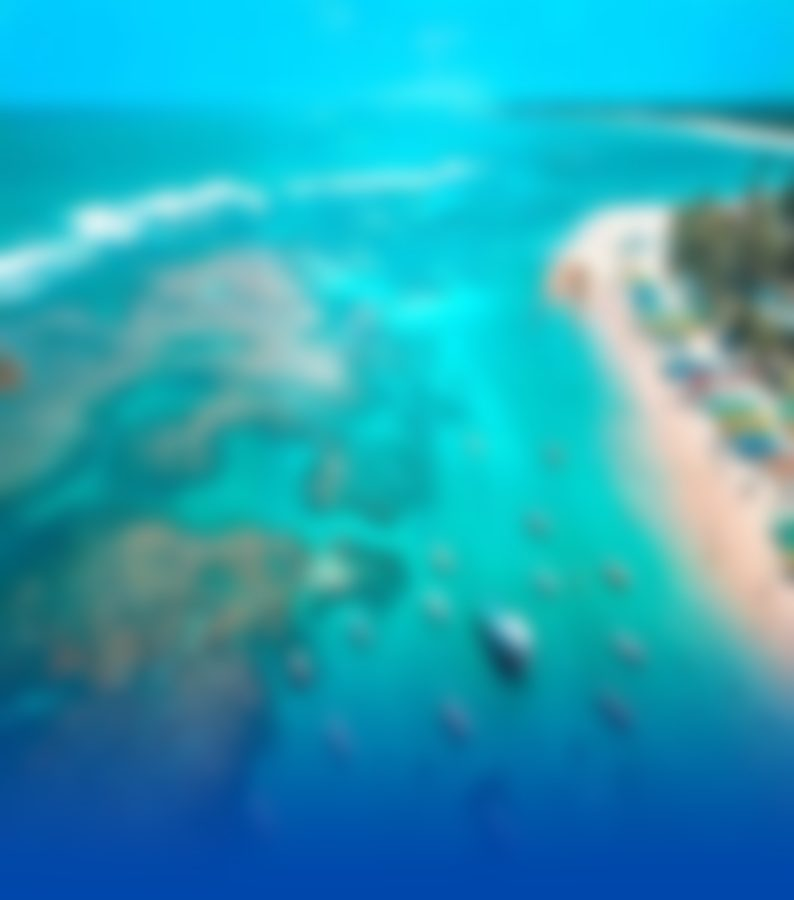
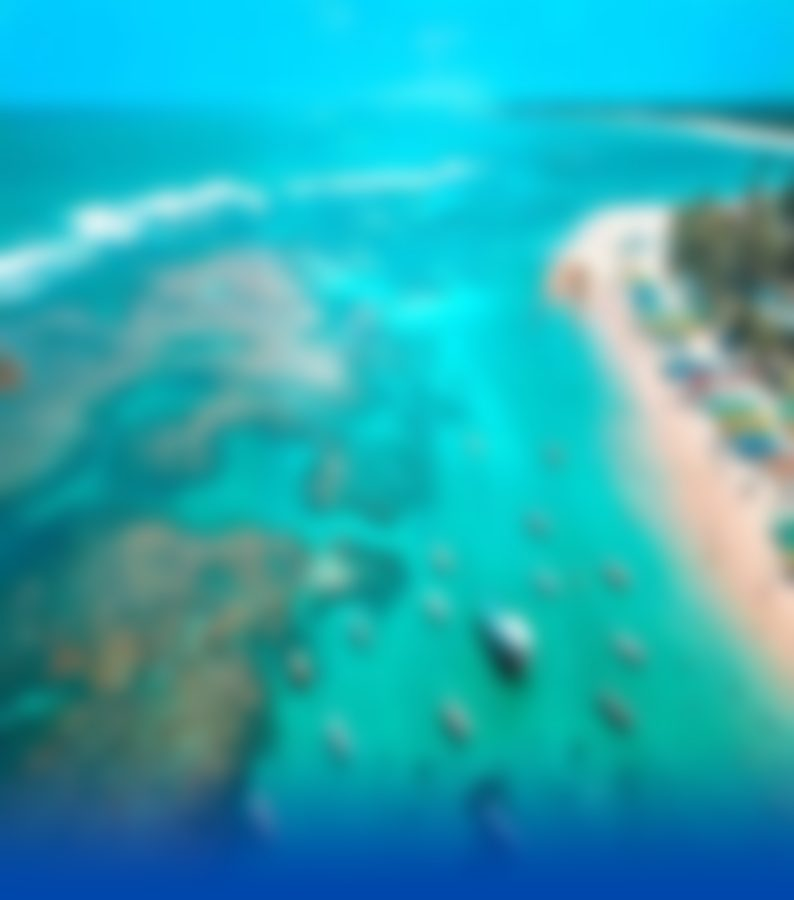
Saudação sobre a foto; degradê começa na altura dos botões
- 'Você está no Flat…' reposicionada sobre a área limpa da foto
  (padding-top do hero 500px desktop / 440px touch)
- Fade do fundo regenerado para iniciar a ~720px (onde entram os
  botões) e fechar no azul sólido em 900px

Claude-Session: https://claude.ai/code/session_01D4hF7k1VnHaJy6rawbmrba

Changed region(s): [[0.0, 0.6844, 1.0, 0.9333]]

diff --git a/styles.css b/styles.css
@@ -1096,14 +1096,14 @@ section[id^="slide-toc"] .page-pad {
 }
 
 /* Hero: flex-col items-center text-center pb-8=32px.
-   padding-top empurra a saudação para baixo da foto (que termina a
-   ~900px do topo da página; header em fluxo ocupa ~80px), sobre o azul. */
+   A saudação fica SOBRE a foto (que vai até ~900px, com o degradê
+   começando na altura dos botões, ~720px); text-shadow garante leitura. */
 section[id^="slide-toc"] .toc-stitch-hero {
   display: flex;
   flex-direction: column;
   align-items: center;
   text-align: center;
-  padding-top: 820px;
+  padding-top: 500px;
   padding-bottom: 32px;
 }
 /* Saudação: headline-lg-mobile = Playfair 28/36/600, mb-2=8px
@@ -1236,7 +1236,9 @@ section[id^="slide-toc"] .toc-btn-lbl {
   section[id^="slide-toc"] .hdr .lang-flag { width: 58px !important; height: 38px !important; border-radius: 8px !important; }
   section[id^="slide-toc"] .toc-hdr-return { font-size: 22px !important; }
   section[id^="slide-toc"] .toc-stitch-hero {
-    padding-top: 760px !important;
+    /* header ~140px + 440px: saudação sobre a foto; os botões chegam
+       junto com o início do degradê (~720px). */
+    padding-top: 440px !important;
     padding-bottom: 60px !important;
   }
   section[id^="slide-toc"] .toc-heading {
